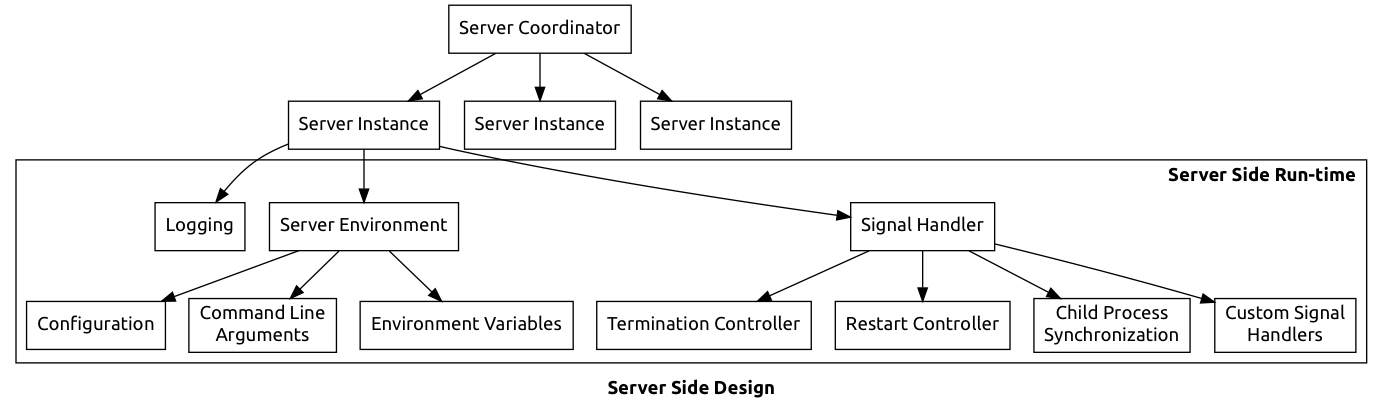
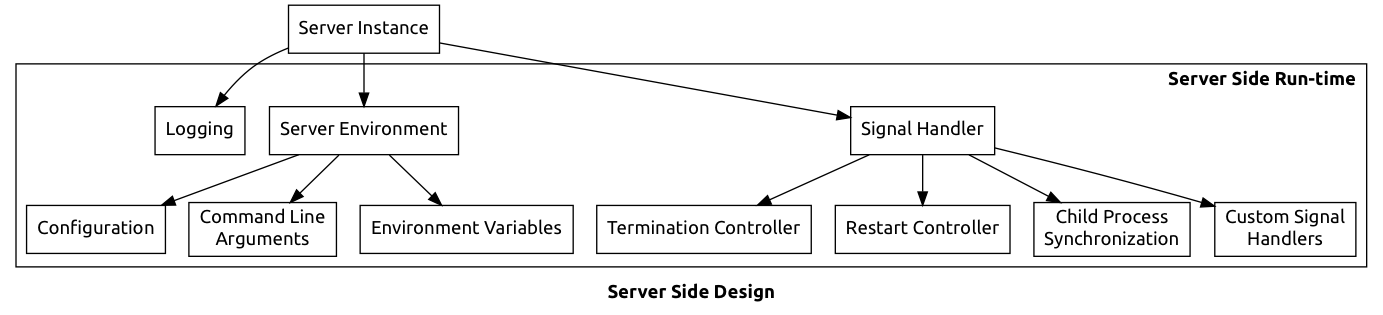
Creation of server object

diff --git a/Sources/ServerSide/Server.swift b/Sources/ServerSide/Server.swift
@@ -27,27 +27,106 @@
 import Foundation
 import POSIX
 
-public struct Server: SignalHandlerDelegate {
-    let delegate: ServerDelegate
-    static let instanceController = InstanceController()
+/// Possible running states for a server process
+public enum ServerState {
+    /// Server was created but is not yet running
+    case created
+    /// Server is running
+    case running
+    /// Server was halted
+    case halted
+    /// Server has completed executing correctly
+    case exited
+    /// Process exited without control.
+    case killed
+}
+
+/// Server configuration structure
+public typealias ServerConfiguration = [String:Any]
+
+/// This class is an abstraction for a server instance. Each instance runs in
+/// its own address space, i.e., in a child process.
+public final class Server {
+    /// This instance PPID
+    let ppid: PID
+    /// This instance PID
+    let pid: PID
+    /// Server delegate
+    public var delegate: ServerDelegate?
+    /// Server state
+    public var state = ServerState.created
+    /// Default, and only instance, of the server
+    static let `default` = Server()
+    /// Signal delegate. This is a class variable since signal handling is done
+    /// at the process level.
+    static let signalHandler = SignalHandler(server: Server.default)
     
-    public init(delegate: ServerDelegate) {
-        self.delegate = delegate
+    /// Initializer. Adds a delegate to the running instance
+    fileprivate init() {
+        self.ppid = getppid()
+        self.pid = getpid()
+    }
+
+    /// Starts this instance execution
+    public func start() {
+    }
+
+    /// Stops this instance execution
+    public func stop() {
+    }
+
+    /// Kills this instance by sending a KILL signal to it.
+    ///
+    /// - remarks: Use this only in extreme situations. This will make your
+    /// process end without notice. Any pending buffers will not be flushed and
+    /// all resources will be lost.
+    func kill() {
+        Signal.killPid(signal: .kill)
+    }
+
+    /// Restarts the server, refreshing it. In fact, this is a convenience
+    /// method.
+    public func restart() {
+        stop()
+        start()
+    }
+}
+
+/// Handles signals.
+///
+/// - comments: It is supposed to have only a single instance of this struct. It
+/// was designed with this in mind.
+struct SignalHandler: SignalHandlerDelegate {
+    /// Dependency injected through initializer
+    weak var server: Server?
+    
+    /// Installs it as a signal handler delegate
+    init(server: Server) {
         Signal.delegate = self
-    }
-    
-    public func run() {
-        
-    }
-    
-    func configure() {
-        let defaultHandledSignals: [SignalType] = [.term, .hup, .chld]
-        for signalType in defaultHandledSignals {
-            Signal.setTrap(signal: signalType, action: .handle)
+        let signals: [SignalType] = [.hup, .int, .segv, .term, .abrt]
+        for signal in signals {
+            Signal.setTrap(signal: signal, action: .handle)
         }
+        self.server = server
     }
-    
-    mutating public func handleSignal(signal: SignalType?) {
-        
+
+    // MARK: SignalHandlerDelegate
+
+    /// Handles a signal received by the process
+    mutating func handleSignal(signal: SignalType?) {
+        guard signal != nil else {
+            return
+        }
+        switch signal! {
+        case .hup:
+            server?.restart()
+        case .int, .term:
+            server?.stop()
+        case .abrt:
+            server?.kill()
+        default:
+            // Do nothing.
+            break
+        }
     }
 }
